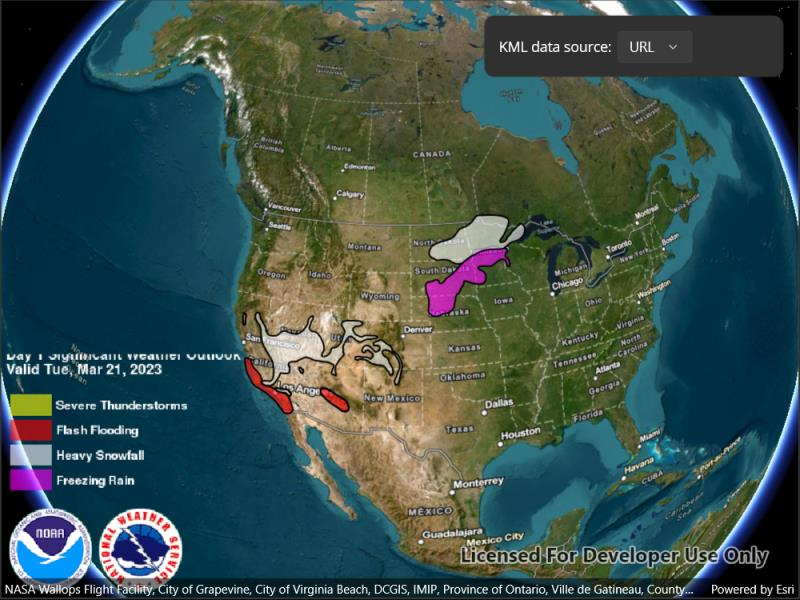
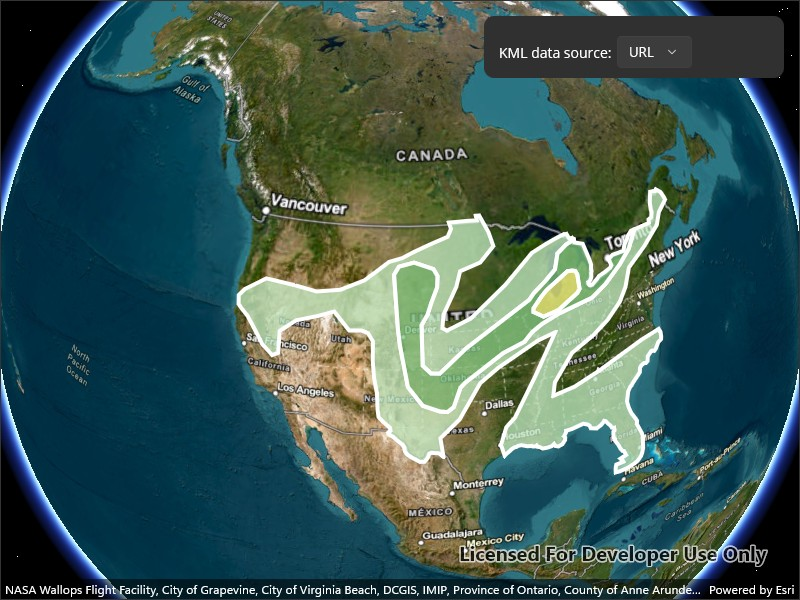
data fix

diff --git a/src/WinUI/ArcGIS.WinUI.Viewer/Samples/Layers/DisplayKml/DisplayKml.xaml.cs b/src/WinUI/ArcGIS.WinUI.Viewer/Samples/Layers/DisplayKml/DisplayKml.xaml.cs
@@ -61,7 +61,7 @@ namespace ArcGIS.WinUI.Samples.DisplayKml
                 {
                     case "URL":
                     default:
-                        layer = new KmlLayer(new Uri("https://www.wpc.ncep.noaa.gov/kml/noaa_chart/WPC_Day1_SigWx.kml"));
+                        layer = new KmlLayer(new Uri("https://www.spc.noaa.gov/products/outlook/SPC_outlooks.kml"));
                         break;
 
                     case "Local file":

diff --git a/src/WPF/WPF.Viewer/Samples/Layers/DisplayKml/DisplayKml.xaml.cs b/src/WPF/WPF.Viewer/Samples/Layers/DisplayKml/DisplayKml.xaml.cs
@@ -62,7 +62,7 @@ namespace ArcGIS.WPF.Samples.DisplayKml
                 {
                     case "URL":
                     default:
-                        layer = new KmlLayer(new Uri("https://www.wpc.ncep.noaa.gov/kml/noaa_chart/WPC_Day1_SigWx.kml"));
+                        layer = new KmlLayer(new Uri("https://www.spc.noaa.gov/products/outlook/SPC_outlooks.kml"));
                         break;
 
                     case "Local file":

diff --git a/src/MAUI/Maui.Samples/Samples/Layers/DisplayKml/DisplayKml.xaml.cs b/src/MAUI/Maui.Samples/Samples/Layers/DisplayKml/DisplayKml.xaml.cs
@@ -60,7 +60,7 @@ namespace ArcGIS.Samples.DisplayKml
                 {
                     case "URL":
                     default:
-                        layer = new KmlLayer(new Uri("https://www.wpc.ncep.noaa.gov/kml/noaa_chart/WPC_Day1_SigWx.kml"));
+                        layer = new KmlLayer(new Uri("https://www.spc.noaa.gov/products/outlook/SPC_outlooks.kml"));
                         break;
 
                     case "Local file":

diff --git a/src/MAUI/Maui.Samples/Samples/Layers/DisplayKml/readme.md b/src/MAUI/Maui.Samples/Samples/Layers/DisplayKml/readme.md
@@ -26,13 +26,15 @@ Use the UI to select a source. A KML file from that source will be loaded and di
 
 ## Offline data
 
-This sample uses [US state capitals](https://arcgisruntime.maps.arcgis.com/home/item.html?id=324e4742820e46cfbe5029ff2c32cb1f) KML file. It is downloaded from ArcGIS Online automatically.
+Link | Local Location
+---------|-------|
+|[US State Capitals](https://www.arcgis.com/home/item.html?id=324e4742820e46cfbe5029ff2c32cb1f)| `<userhome>/ArcGIS/Runtime/Data/kml/US_State_Capitals.kml` |
 
 ## About the data
 
 This sample displays three different KML files:
 
-* From URL - this is a map of the significant weather outlook produced by NOAA/NWS. It uses KML network links to always show the latest data.
+* From URL - this is a map of the convective outlook produced by NOAA/NWS Storm Prediction Center. It uses KML network links to always show the latest data.
 * From local file - this is a map of U.S. state capitals. It doesn't define an icon, so the default pushpin is used for the points.
 * From portal item - this is a map of U.S. states.
 

diff --git a/src/WPF/WPF.Viewer/Samples/Layers/DisplayKml/readme.md b/src/WPF/WPF.Viewer/Samples/Layers/DisplayKml/readme.md
@@ -26,13 +26,15 @@ Use the UI to select a source. A KML file from that source will be loaded and di
 
 ## Offline data
 
-This sample uses [US state capitals](https://arcgisruntime.maps.arcgis.com/home/item.html?id=324e4742820e46cfbe5029ff2c32cb1f) KML file. It is downloaded from ArcGIS Online automatically.
+Link | Local Location
+---------|-------|
+|[US State Capitals](https://www.arcgis.com/home/item.html?id=324e4742820e46cfbe5029ff2c32cb1f)| `<userhome>/ArcGIS/Runtime/Data/kml/US_State_Capitals.kml` |
 
 ## About the data
 
 This sample displays three different KML files:
 
-* From URL - this is a map of the significant weather outlook produced by NOAA/NWS. It uses KML network links to always show the latest data.
+* From URL - this is a map of the convective outlook produced by NOAA/NWS Storm Prediction Center. It uses KML network links to always show the latest data.
 * From local file - this is a map of U.S. state capitals. It doesn't define an icon, so the default pushpin is used for the points.
 * From portal item - this is a map of U.S. states.
 

diff --git a/src/WinUI/ArcGIS.WinUI.Viewer/Samples/Layers/DisplayKml/readme.md b/src/WinUI/ArcGIS.WinUI.Viewer/Samples/Layers/DisplayKml/readme.md
@@ -26,13 +26,15 @@ Use the UI to select a source. A KML file from that source will be loaded and di
 
 ## Offline data
 
-This sample uses [US state capitals](https://arcgisruntime.maps.arcgis.com/home/item.html?id=324e4742820e46cfbe5029ff2c32cb1f) KML file. It is downloaded from ArcGIS Online automatically.
+Link | Local Location
+---------|-------|
+|[US State Capitals](https://www.arcgis.com/home/item.html?id=324e4742820e46cfbe5029ff2c32cb1f)| `<userhome>/ArcGIS/Runtime/Data/kml/US_State_Capitals.kml` |
 
 ## About the data
 
 This sample displays three different KML files:
 
-* From URL - this is a map of the significant weather outlook produced by NOAA/NWS. It uses KML network links to always show the latest data.
+* From URL - this is a map of the convective outlook produced by NOAA/NWS Storm Prediction Center. It uses KML network links to always show the latest data.
 * From local file - this is a map of U.S. state capitals. It doesn't define an icon, so the default pushpin is used for the points.
 * From portal item - this is a map of U.S. states.
 
